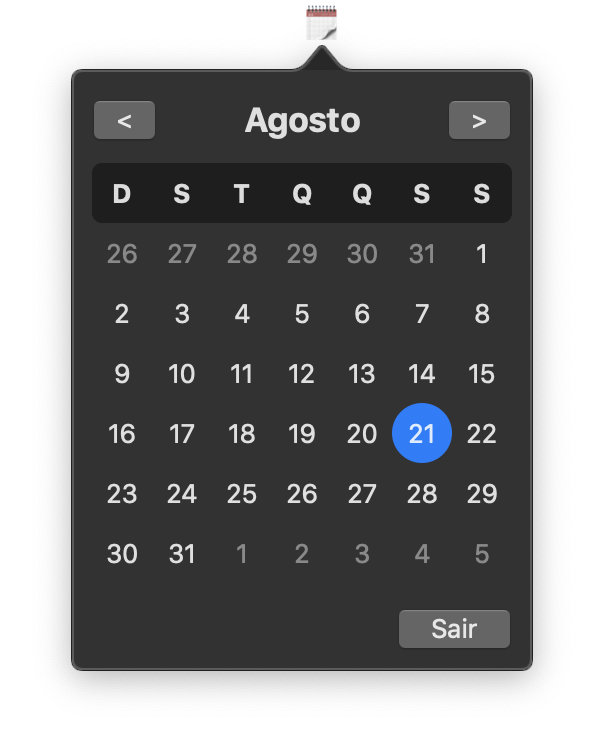
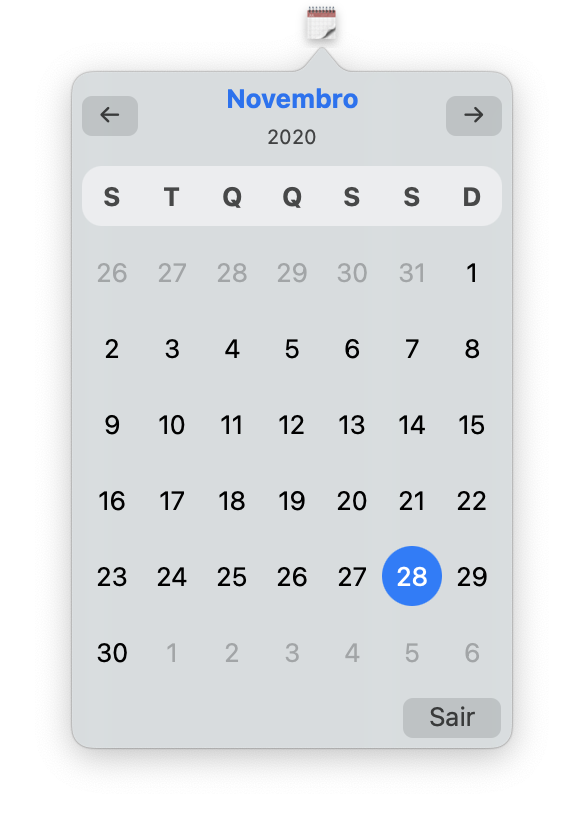
Update README

diff --git a/README.md b/README.md
@@ -3,6 +3,13 @@
 A simple, yet useful menu extras item to show the current month on macOS 10.15+.
 
 ![](images/image1.png)
+![](images/image2.png)
+
+## [1.0.3] - 2020-11-28
+
+### Changed
+- Improved layout to fix some bugs running on Big Sur
+- Should be compatible with M1 macs, I do not own one to test.
 
 ## [1.0.2] - 2020-09-16
 
